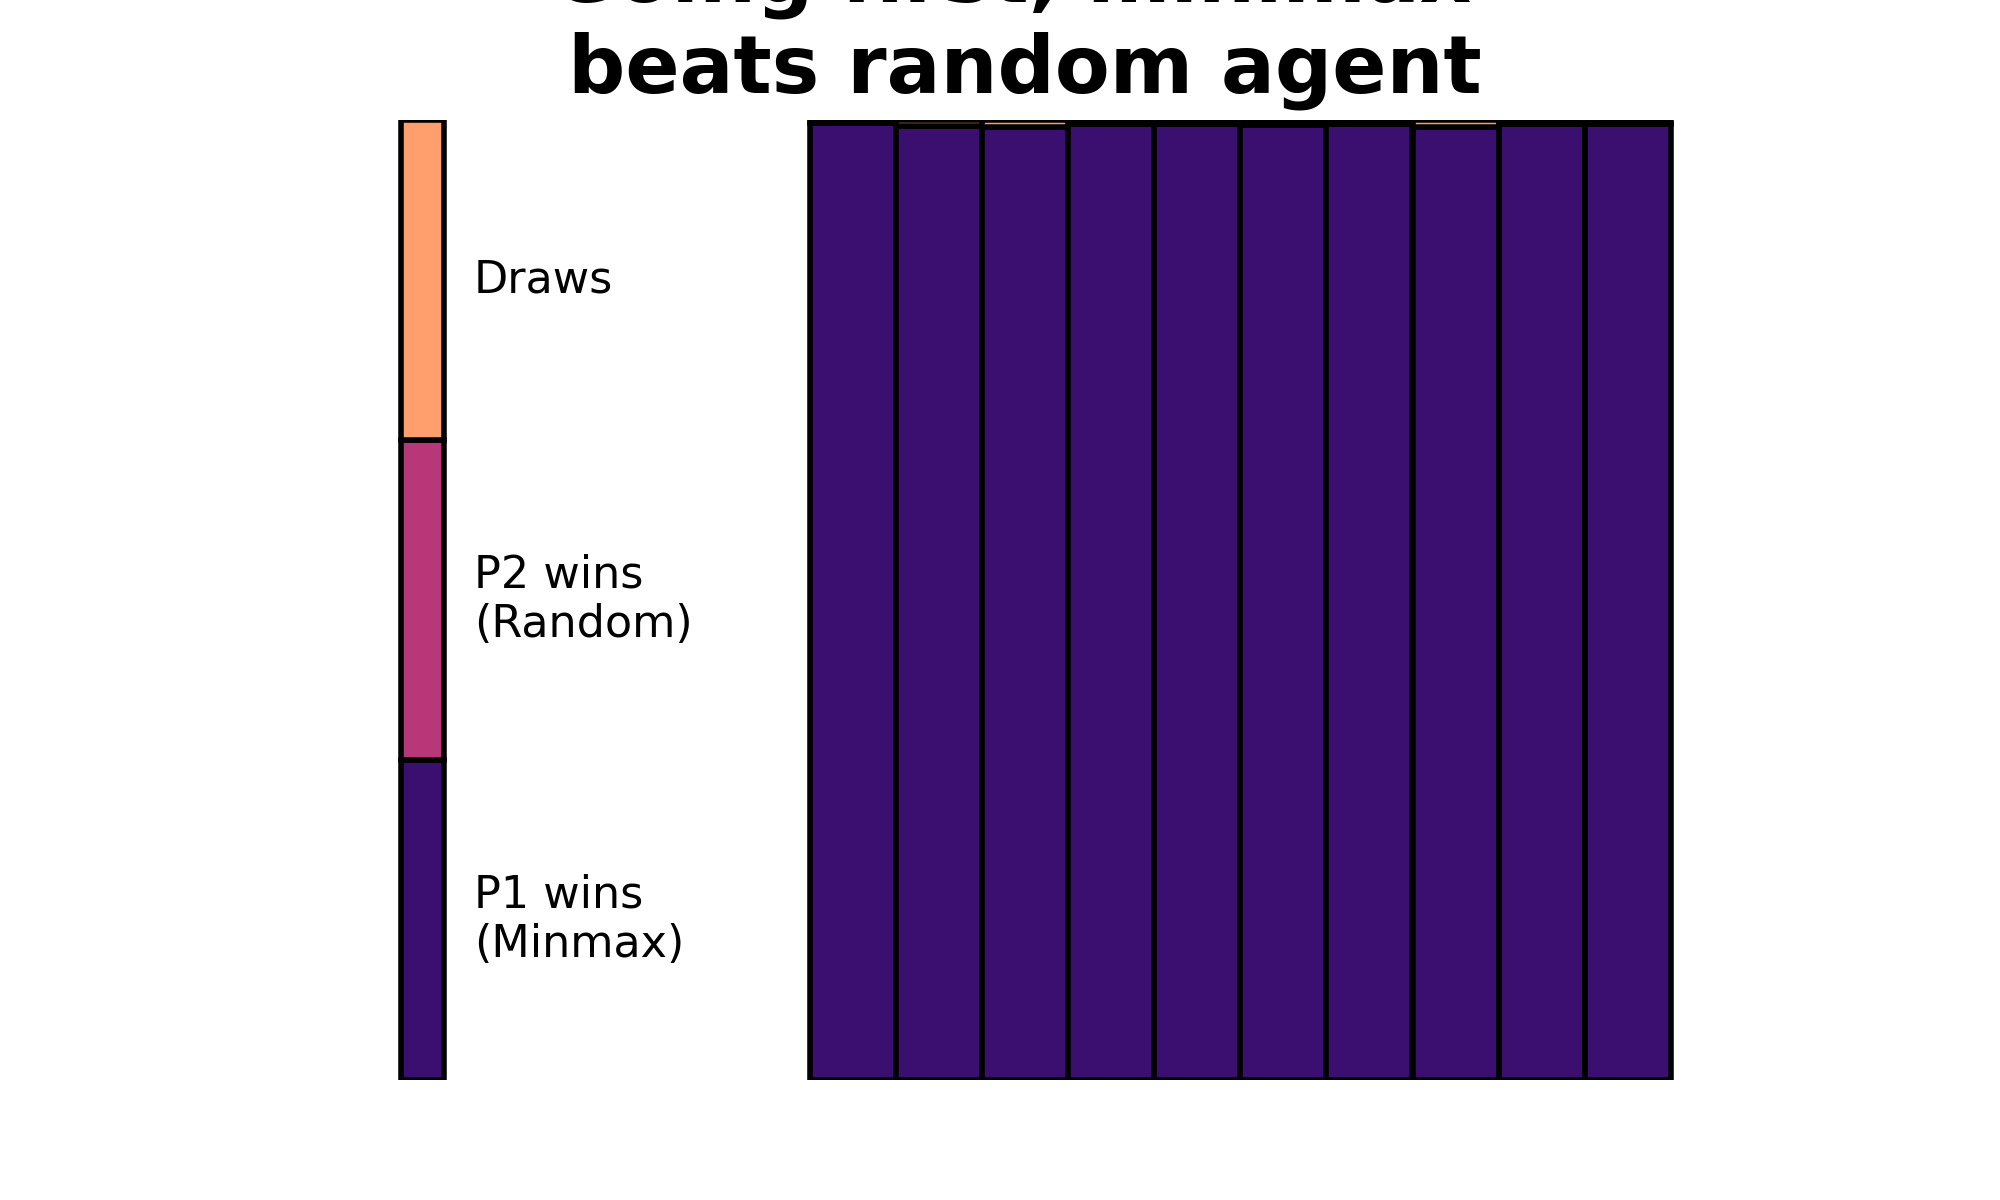
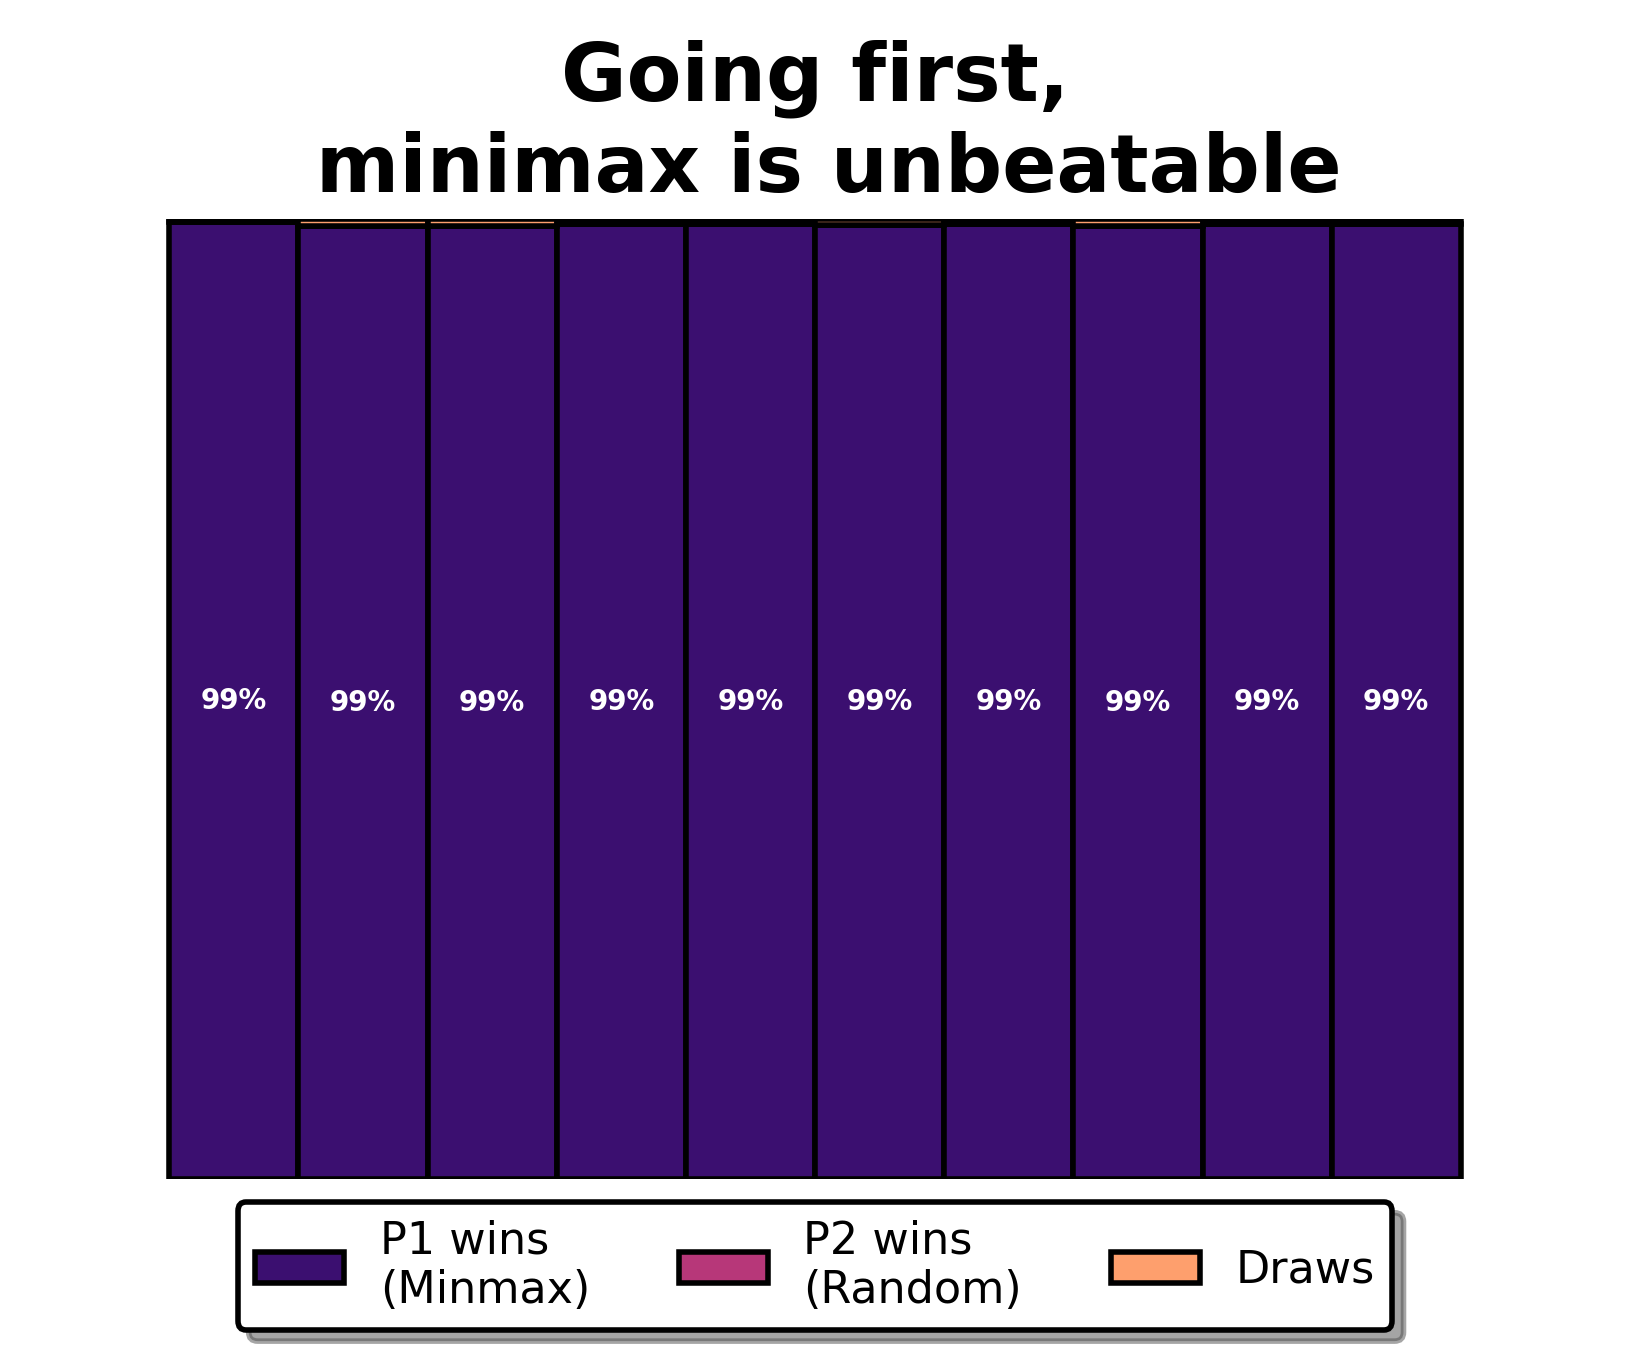
Update post

diff --git a/_posts/2025-22-05-tic-tac-toe.md b/_posts/2025-22-05-tic-tac-toe.md
@@ -11,7 +11,7 @@ description: Learn how to make computers play Tic-Tac-Toe
 
 ## Intro
 
-This post introduces a number of (machine-learning) algorithms including the minimax algorithm, tabular Q-learning and deep Q-learning (using dual networks, duelling networks, convolutional networks and prioritised experience replay) to play the game Tic-Tac-Toe. It essentially reproduces <a href="https://github.com/fcarsten/tic-tac-toe/"> Carsten Friedrich's excellent notebook series</a>.  I will gloss over some details, so please refer to Carsten's post for some more explanations.  To spice things up a bit, I also describe the profiling of the code using flame diagrams and hyperparameter optimisation using 'optuna'. You may find the accompanying <a href="https://github.com/KunkelAlexander/tictactoe_rl"> Python code on GitHub </a>.
+This post introduces a number of (machine-learning) algorithms including the minimax algorithm, tabular Q-learning and deep Q-learning (using dual networks, duelling networks, convolutional networks and prioritised experience replay) to play the game Tic-Tac-Toe. It essentially reproduces <a href="https://github.com/fcarsten/tic-tac-toe/"> Carsten Friedrich's excellent notebook series</a>.  I will gloss over some details, so please refer to Carsten's post for some more explanations.  To spice things up a bit, I also describe the profiling of the code using flame diagrams and hyperparameter optimisation using 'optuna'. You may find the accompanying <a href="https://github.com/KunkelAlexander/tictactoe_rl"> Python code on GitHub</a>.
 
 <img src="{{ site.baseurl }}/assets/img/tictactoe-python/1_random_game_play.gif" alt="">
 
@@ -28,36 +28,34 @@ We first establish the baseline performance of an agent playing legal, random mo
 ## Minimax algorithm
 <img src="{{ site.baseurl }}/assets/img/tictactoe-python/2_minimax_vs_random_game_play.gif" alt="">
 
-Now, we turn towards a different kind of benchmarking algorithm: the (minimax algorithm)[https://en.wikipedia.org/wiki/Minimax]. A minimax agent assumes that its opponent will play optimally—making the best possible moves to win. Faced with such a formidable adversary, the minimax agent chooses moves that minimize its own loss — hence the name. If victory is out of reach, the agent aims to at least avoid defeat.
+Now, we turn towards a different kind of benchmarking algorithm: the <a href="https://en.wikipedia.org/wiki/Minimax">minimax algorithm</a>. A minimax agent assumes that its opponent will play optimally—making the best possible moves to win. Faced with such a formidable adversary, the minimax agent chooses moves that minimize its own loss — hence the name. If victory is out of reach, the agent aims to at least avoid defeat.
 
-But how does it decide which move to make?
+
+You would like to know how well does minimax agent performs against a random player?
+
+<img src="{{ site.baseurl }}/assets/img/tictactoe-python/2_minimax_vs_random.png" alt="">
+
+It turns out that the minimax agent is nearly unbeatable. Going second against a random agent, it stumbles into draws 20% of the time, but will never lose.
+
+<img src="{{ site.baseurl }}/assets/img/tictactoe-python/3_random_vs_minimax.png" alt="">
+
+But how does this black magic work? How does the minmax agent decide which move to make?
 
 The minimax algorithm works by evaluating all possible future game states. In a game like Tic-Tac-Toe, this means exploring up to $$3^9=19683$$ board configurations—since each of the $$9$$ squares can be in one of three states: X, O, or empty. The algorithm assigns a score to each final state (win, loss, or draw), and then works backwards from these terminal states to the current position, assuming both players choose optimally at every turn. Ultimately, it selects the move that leads to the best achievable outcome.
 
 The name "minimax" comes from this interplay: the agent tries to minimize the possible maximum loss, while the opponent tries to maximize its own gain. It’s a game of antagonistic optimization.
 
-This sounds like a perfect strategy for all two-player, turn-based games, right? Well—yes, in theory. But the major drawback is computational cost. Even in a simple game like Tic-Tac-Toe, the number of potential board configurations (though reducible due to symmetries) is non-trivial. In complex games like chess, the explosion in possibilities is extreme. If we imagined each square having exactly $$6$$ possible states (empty, rook, bishop, knight, queen, pawn), we get $$6^64\propto 10^{49}$$ combinations.
+This sounds like a perfect strategy for all two-player, turn-based games, right? Well—yes, in theory. But the major drawback is computational cost. Even in a simple game like Tic-Tac-Toe, the number of potential board configurations (though reducible due to symmetries) is non-trivial. In complex games like chess, the explosion in possibilities is extreme. If we imagined each square having exactly $$6$$ possible states (empty, rook, bishop, knight, queen, pawn), we get $$6^{64}\propto 10^{49}$$ combinations.
 
 To make minimax tractable in such cases, practical implementations use optimizations such as pruning (e.g., alpha-beta pruning) and heuristics to evaluate only a subset of promising positions.
 
-Returning to Tic-Tac-Toe: how well does a minimax agent perform against a random player?
-
-Unsurprisingly, the minimax agent is nearly unbeatable. A random agent might occasionally stumble into a draw, but it has no chance of winning - a situation shown in the above animation. The minimax strategy guarantees either victory or a draw, depending on who moves first and how the game unfolds.
-
-<img src="{{ site.baseurl }}/assets/img/tictactoe-python/2_minimax_vs_random.png" alt="">
-
-Going first helps the random agent to achieve slightly more draws.
-
-<img src="{{ site.baseurl }}/assets/img/tictactoe-python/3_random_vs_minimax.png" alt="">
-
-
-But only another agent playing ideally manages to achieve the desired 100% draws.
+And what can stop a minmax agent? Well, another minmax agent. But it turns out that we can also do better against a random agent. We will see how in the next section.
 
 <img src="{{ site.baseurl }}/assets/img/tictactoe-python/4_minimax_vs_minimax.png" alt="">
 
 ## Q-Learning
 
-Now, that we know what performance an agent needs to achieve to be better than a random agent and to play optimally, we can turn towards (Q-learning)[https://en.wikipedia.org/wiki/Q-learning]. While Minimax works by exhaustively simulating all future outcomes, Q-learning takes a very different approach: instead of reasoning through every possible scenario, it learns from experience. More specifically, it learns which actions lead to better outcomes over time by interacting with the environment and updating a table of values—called a Q-table—that estimates the value of taking a given action in a given state.
+Now, that we know what performance an agent needs to achieve to be better than a random agent and to play optimally, we can turn towards <a href="https://en.wikipedia.org/wiki/Q-learning">Q-Learning</a>. While minimax works by exhaustively simulating all future outcomes, Q-learning takes a very different approach: instead of reasoning through every possible scenario, it learns from experience. More specifically, it learns which actions lead to better outcomes over time by interacting with the environment and updating a table of values—called a Q-table—that estimates the value of taking a given action in a given state.
 
 In the context of Tic-Tac-Toe, a tabular Q-learning agent builds up a table where each entry maps:
 - a board configuration (the state),
@@ -67,9 +65,15 @@ In the context of Tic-Tac-Toe, a tabular Q-learning agent builds up a table wher
 These Q-values are updated as the agent plays games and receives feedback. The feedback is user-defined through rewards and can be adapted at different training stages. Over time, the agent learns to prefer actions that are more likely to lead to positive rewards, even without knowing all the possible outcomes of the game. This makes Q-learning especially powerful in larger environments where minimax is computationally infeasible.
 
 
-In the next section, we’ll train a Q-learning agent by letting it play thousands of games and observe how it gradually improves.
+We train a Q-learning agent by letting it play up to 10000 thousand games and observe how it gradually improves.
+
+<img src="{{ site.baseurl }}/assets/img/tictactoe-python/5_random_vs_q.png" alt="">
+
+Surprisingly, it achieves close to 90% victories playing second against the random agent whereas the minimax agent only achieved 80%. How is this possible?  Unlike minimax, which assumes the opponent plays perfectly, Q-learning can adapt to the behavior of different opponents—making it well-suited for environments where opponents are unpredictable or not fully rational. In this case,  it has observed that the random agent makes a lot of silly mistakes. And it takes full advantage of these by playing riskier than the minimax agent. That means it cannot avoid the occasional loss, but it performs better against the random agent. Interestingly, its risky strategies still seem to work against the minmax agent where it achieves 100% draws in my tests. Alternatively, we can also train the Q-agent directly with the minmax agent and it also learns how to play draws reliably.
+
+<img src="{{ site.baseurl }}/assets/img/tictactoe-python/7_minmax_vs_q.png" alt="">
+
+The size of the table is determined by the number of possible states and moves. Given that there are 9 possible moves on an empty board and 19683 board configurations, the table will have $$9\times19683$$ entries.
 
 
 
-
-Unlike minimax, which assumes the opponent plays perfectly, Q-learning can adapt to the behavior of different opponents—making it well-suited for environments where opponents are unpredictable or not fully rational.
